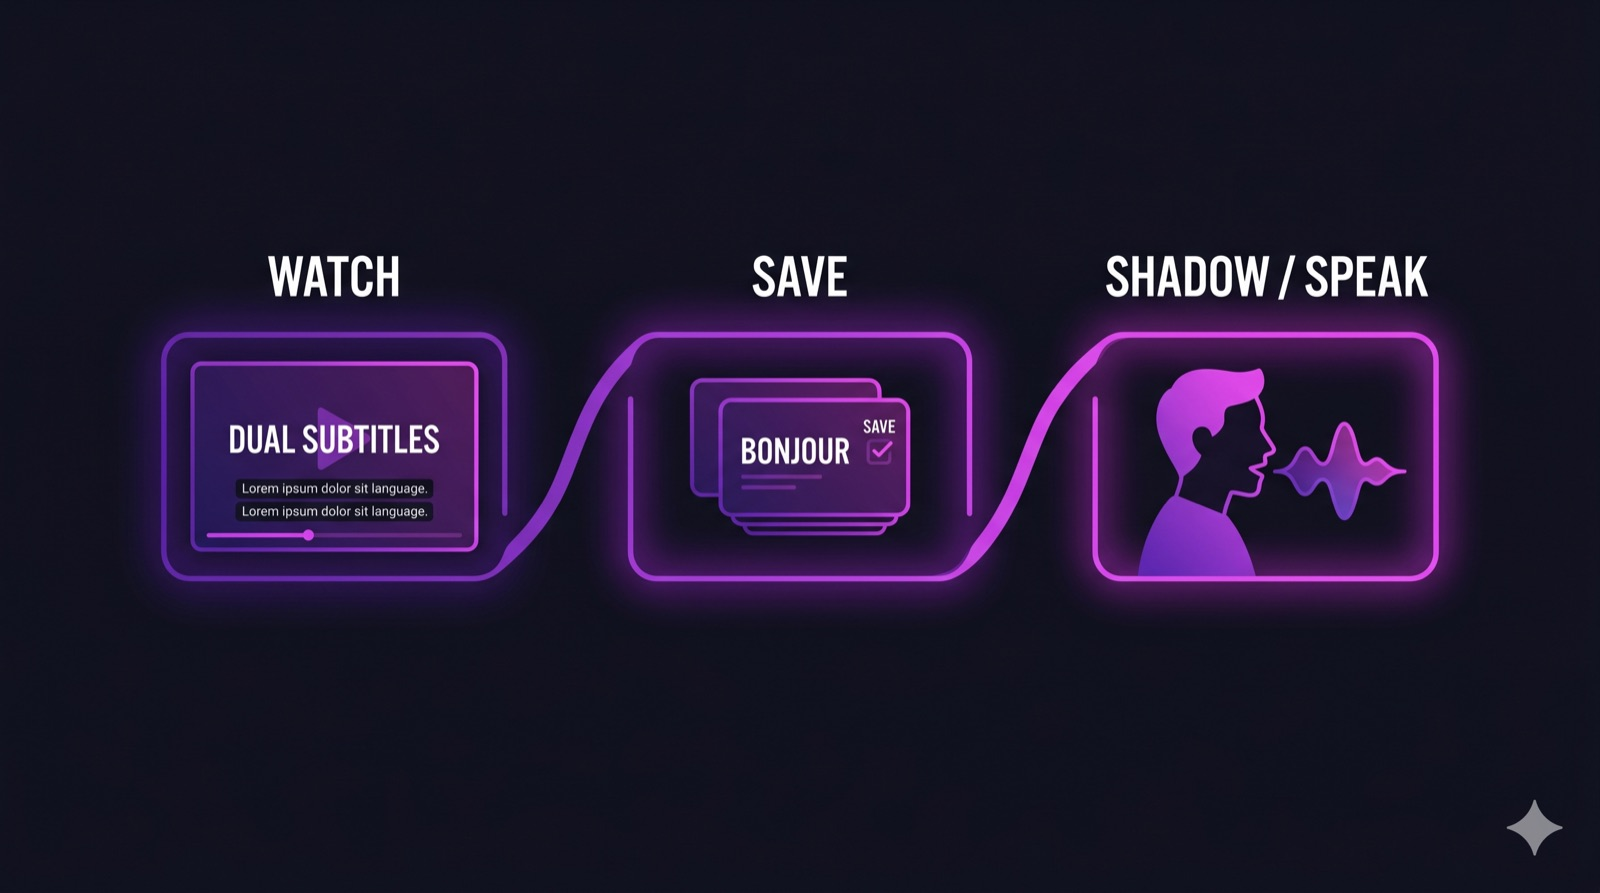
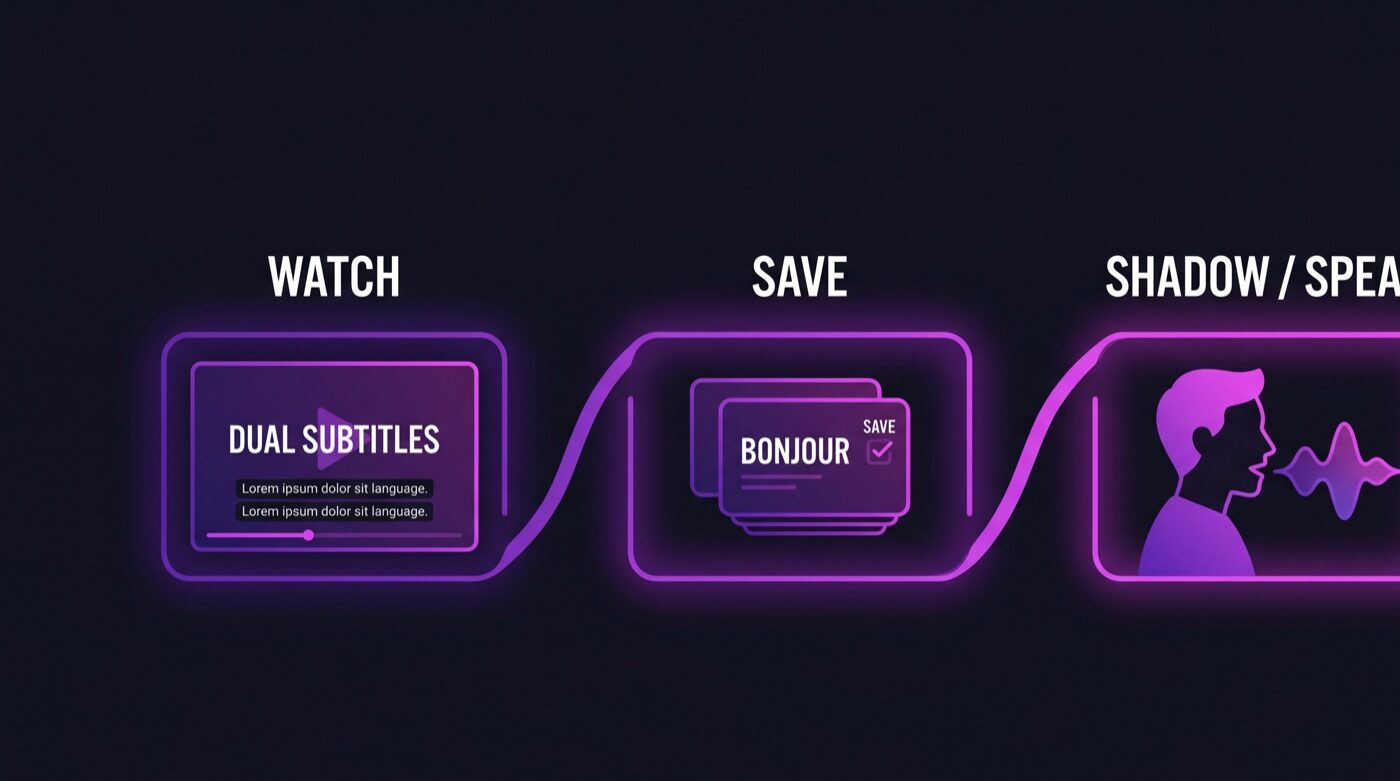
feat(blog): images for learn-japanese-with-anime + scrub Gemini watermark from all AI images
Crop bottom-right corner (keeping exact 16:9 ratio) to remove the Gemini
sparkle watermark from all 12 generated blog images.

Changed region(s): [[0.0921, 0.2766, 1.0, 0.799], [0.9214, 0.8912, 0.9829, 0.9526]]

diff --git a/app/blog/learn-japanese-with-anime/content.tsx b/app/blog/learn-japanese-with-anime/content.tsx
@@ -26,6 +26,13 @@ export default function LearnJapaneseWithAnimeContent() {
       </section>
       <main className="w-full max-w-3xl mx-auto px-6 pb-24">
         <div className="prose prose-invert prose-lg max-w-none text-gray-300">
+          <img
+            src="/blog-images/learn-japanese-with-anime-hero.jpg"
+            alt="Anime scene on a screen with Japanese and English dual subtitles for language learning"
+            width={1600}
+            height={893}
+            fetchPriority="high"
+          />
           <KeyTakeaways items={[
             "Anime gives you emotionally rich, context-heavy Japanese that flashcards and textbooks cannot teach.",
             "Choose anime by level: slice-of-life like Shirokuma Cafe and Takagi-san for beginners, character-driven shows like Spy x Family for intermediate.",
@@ -71,6 +78,13 @@ export default function LearnJapaneseWithAnimeContent() {
 
           <hr className="border-white/10 my-12" />
 
+          <img
+            src="/blog-images/learn-japanese-with-anime-inline.jpg"
+            alt="Japanese vocabulary flashcards with kana and English meanings beside an anime screen"
+            width={1600}
+            height={893}
+            loading="lazy"
+          />
           <h2 className="text-2xl sm:text-3xl font-bold text-white mb-6">Step 2: Set Up Dual Subtitles</h2>
           <p className="text-gray-300 mb-6">The foundation of this method is watching with two sets of subtitles: Japanese and your native language displayed simultaneously. This lets you read the original Japanese text while immediately checking meaning below it — no pausing, no tab-switching, no dictionary apps.</p>
           <p className="text-gray-300 mb-6">Funlingo adds dual subtitles to YouTube for free. Many anime episodes, clips, and full series are available on YouTube with Japanese subtitles. Install the <a href="https://chromewebstore.google.com/detail/funlingo-dual-subtitles-f/gjdpaicenfffjkgofmcjikilokigkonj?authuser=3&hl=en" className="text-[#C642FC] hover:underline">Funlingo Chrome extension</a>, open a video, and select your target and native languages.</p>
